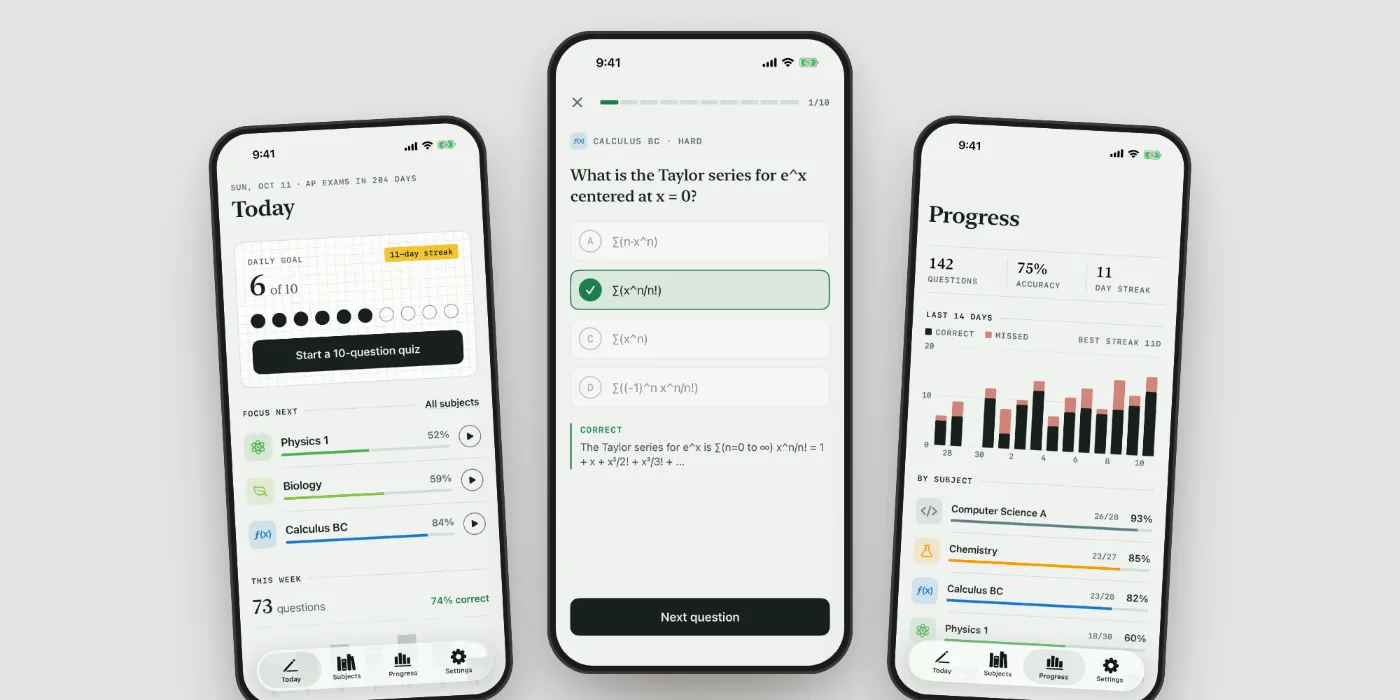
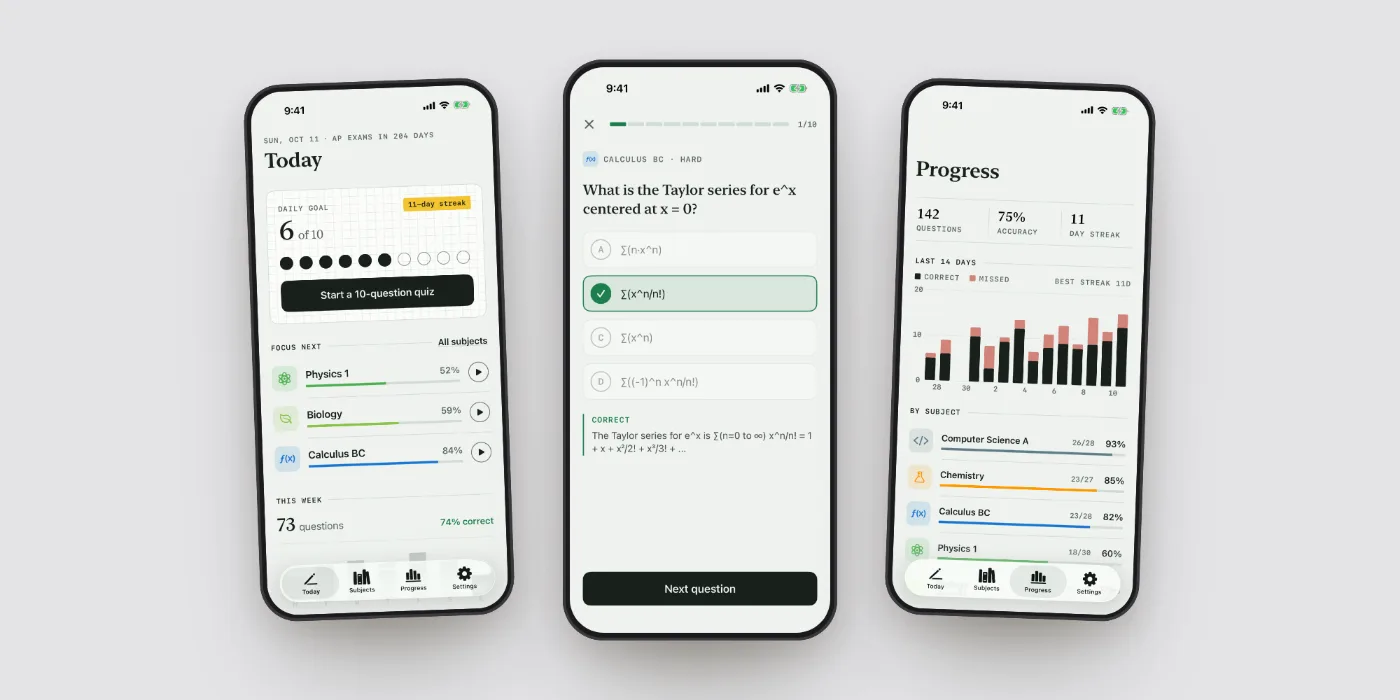
Fix Formula Quizzer preview: readable hero image, uncropped cover

Changed region(s): [[0.1229, 0.03, 0.86, 1.0]]

diff --git a/index.html b/index.html
@@ -67,7 +67,7 @@
             <span class="tile__meta"><span class="tile__title">ExchangeLab <svg class="icon" aria-hidden="true"><use href="icons.svg#i-arrow-up-right"/></svg></span><span class="mono muted">Python</span></span>
           </a>
           <a class="tile" href="#/work/formula-quizzer" data-slug="formula-quizzer" data-reveal style="--i:4">
-            <span class="frame"><span class="frame__img"><img src="images/formula-quizzer/cover.png" srcset="images/formula-quizzer/cover-800.webp 800w, images/formula-quizzer/cover-1400.webp 1400w, images/formula-quizzer/cover.png 2000w" sizes="(max-width: 900px) 46vw, 340px" alt="Formula Quizzer on three iPhones" width="2000" height="1000" fetchpriority="high"></span></span>
+            <span class="frame"><span class="frame__img"><img src="images/formula-quizzer/preview.png" srcset="images/formula-quizzer/preview-800.webp 800w, images/formula-quizzer/preview-1400.webp 1400w, images/formula-quizzer/preview.png 2000w" sizes="(max-width: 900px) 46vw, 340px" alt="Formula Quizzer’s Today screen and a calculus question on two iPhones" width="2000" height="1000" fetchpriority="high"></span></span>
             <span class="tile__meta"><span class="tile__title">Formula Quizzer <svg class="icon" aria-hidden="true"><use href="icons.svg#i-arrow-up-right"/></svg></span><span class="mono muted">Swift</span></span>
           </a>
         </div>
